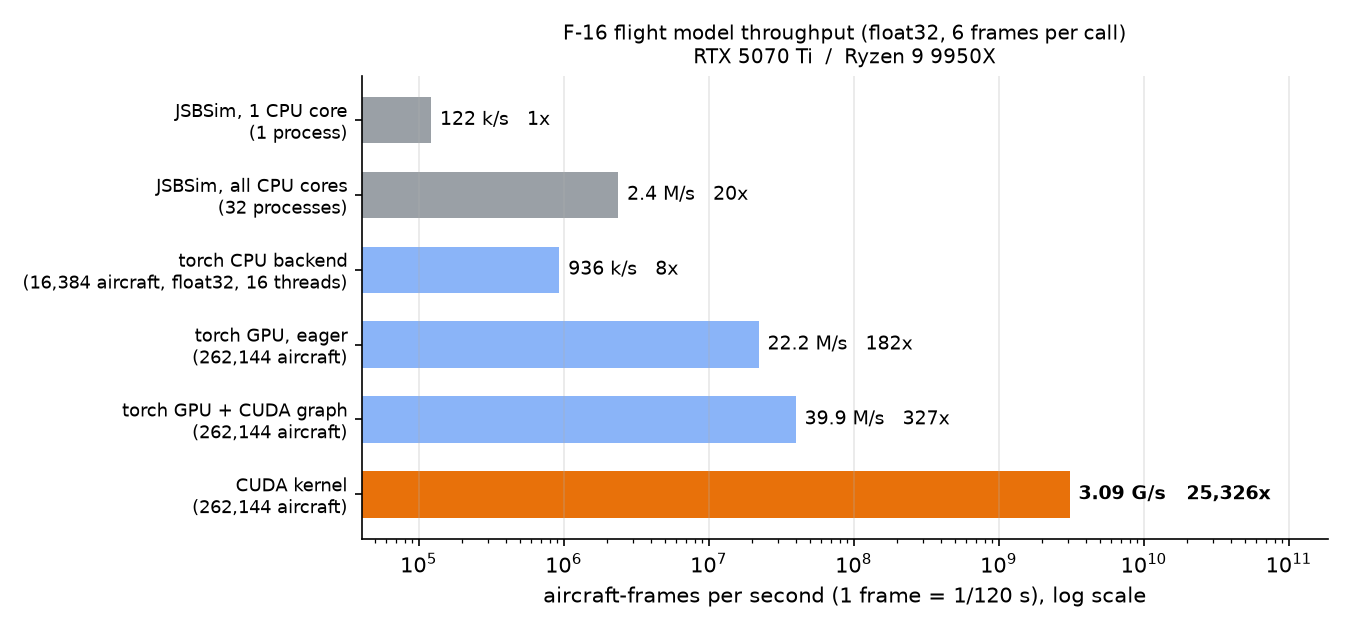
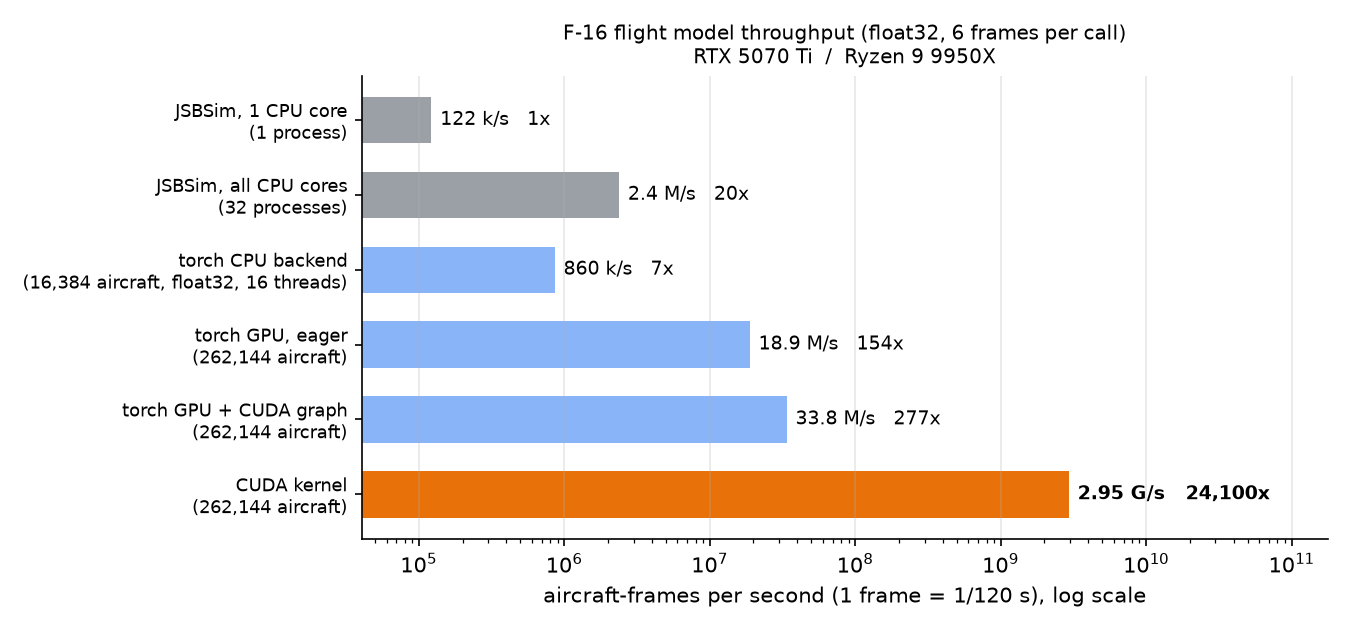
v0.2.1: re-measured throughput after inertial-frame velocity integration
Kernel 2.95 G aircraft-frames/s at 262,144 aircraft on an idle RTX 5070 Ti (was 3.09 G before the integration fix; best of two runs, < 3 % apart): 24,100x JSBSim on one core and 1,240x on all 32 threads, physics only.  torch GPU + CUDA graph 33.8 M, eager 18.9 M; torch CPU 0.86 M (16,384 aircraft, 16 threads).  README (en/ko), docs/benchmarks.md, bench.json and the figure updated; plot ratios rounded to 3 significant figures.  Code: sync with upstream (trim seeding hooks, kernel environment struct); verification unchanged.

diff --git a/jsbsim_f16_cuda/fused_core.py b/jsbsim_f16_cuda/fused_core.py
@@ -97,6 +97,7 @@ def _core_consts(dbl: bool) -> str:
         FF_UP=FF_RATE_UP_PPH_S * DT_PHYS / 3600.0,
         FF_DN=FF_RATE_DOWN_PPH_S * DT_PHYS / 3600.0,
         R_EARTH=RB.R_EARTH, RH_REF=RB.R_EARTH + RB.H_REF,
+        WGS84_A=RB.WGS84_A, WGS84_E2=RB.WGS84_E2,
         AB3_0=23.0 / 12.0, AB3_1=16.0 / 12.0, AB3_2=5.0 / 12.0,
         ATM_EARTH_R=PR._EARTH_R, ATM_G0=PR._G0, ATM_R=PR._R_ENG, ATM_GAMMA=PR._GAMMA,
         RHO_SL_TURB=PR._RHO_SL,
@@ -396,7 +397,7 @@ struct Pre {
     REAL web_x, web_y, web_z, wix, wiy, wiz;
 };
 // 위도·중력 (인스턴스마다 다르다 -- 커널 인자로 받는다)
-struct Env { REAL G0, WE_N, WE_D, ACENT_D; };
+struct Env { REAL G0, WE_N, WE_D, ACENT_D, PROJ, LAT0, COS_LAT0; };
 
 // 상태 포인터 -- torch 플랜트의 텐서들 (제자리에서 읽고 쓴다)
 struct CorePtr {
@@ -730,10 +731,22 @@ __device__ __forceinline__ void core_post(Core& c, const Pre& s, const Env& E,
     c.hu2x = c.hu1x; c.hu2y = c.hu1y; c.hu2z = c.hu1z; c.hu1x = c.hu0x; c.hu1y = c.hu0y; c.hu1z = c.hu0z;
     c.hu0x = anN; c.hu0y = anE; c.hu0z = anD;
     c.hp2x = c.hp1x; c.hp2y = c.hp1y; c.hp2z = c.hp1z; c.hp1x = c.hp0x; c.hp1y = c.hp0y; c.hp1z = c.hp0z;
-    c.hp0x = s.vn; c.hp0y = s.ve; c.hp0z = s.vd;
+    // 수평 위치를 지리좌표 투영(구면 R) 단위로 적분하는 판 (E.PROJ) -- 위치 미분만 바꾼다
+    REAL pvn = s.vn, pve = s.ve;
+    if (E.PROJ != (REAL)0) {
+        REAL lat = E.LAT0 + c.pn / R_EARTH;
+        REAL sl = SIN(lat);
+        REAL ww = (REAL)1 - (REAL)WGS84_E2 * sl * sl;
+        REAL nr = (REAL)WGS84_A / SQRT(ww);
+        REAL mr = nr * ((REAL)1 - (REAL)WGS84_E2) / ww;
+        REAL hh = -c.pd;
+        pvn = s.vn * (R_EARTH / (mr + hh));
+        pve = s.ve * (R_EARTH * E.COS_LAT0 / ((nr + hh) * COS(lat)));
+    }
+    c.hp0x = pvn; c.hp0y = pve; c.hp0z = s.vd;
     if (c.fr) {
         c.hu1x = c.hu2x = anN; c.hu1y = c.hu2y = anE; c.hu1z = c.hu2z = anD;
-        c.hp1x = c.hp2x = s.vn; c.hp1y = c.hp2y = s.ve; c.hp1z = c.hp2z = s.vd;
+        c.hp1x = c.hp2x = pvn; c.hp1y = c.hp2y = pve; c.hp1z = c.hp2z = s.vd;
     }
     if (d) {
         d[0] = s.alpha; d[1] = s.beta; d[2] = s.mach; d[3] = s.qbar; d[4] = s.vc_kts; d[5] = s.vg_fps;
@@ -816,7 +829,7 @@ __device__ __forceinline__ void core_post(Core& c, const Pre& s, const Env& E,
     REAL* __restrict__ cgt_b, const REAL* __restrict__ env
 #define CORE_PTR CorePtr P = {pos, uvw, quat, pqr, fresh, hu, hp, fst, n2_b, n2n_b, fuel_b, ff_b, \
                               ptrim_b, ab_b, wd_b, np_b, cgt_b}; \
-                 Env E = {env[0], env[1], env[2], env[3]};
+                 Env E = {env[0], env[1], env[2], env[3], env[4], env[5], env[6]};
 """
 
 # 조종간 드라이버 -- `F16Stick.step(stick, substeps)` 와 같은 일
@@ -864,10 +877,15 @@ def core_source(aero, turb, mass, dbl: bool) -> str:
 
 
 def env_tensor(rb, device, dtype) -> torch.Tensor:
-    """`RigidBody6DOF` 의 위도·중력 상수 (G0, w_earth N, w_earth D, 원심 D)."""
-    return torch.stack((torch.tensor(rb.gravity, dtype=torch.float64),
+    """`RigidBody6DOF` 의 위도·중력 상수 (G0, w_earth N, w_earth D, 원심 D,
+    지리좌표 투영 여부, lat0, cos lat0).  투영이 없는 강체면 0 / 0 / 1."""
+    f64 = lambda v: torch.tensor(float(v), dtype=torch.float64)
+    return torch.stack((f64(rb.gravity),
                         rb.w_earth_ned[0].double().cpu(), rb.w_earth_ned[2].double().cpu(),
-                        rb.a_cent_ned[2].double().cpu())).to(device=device, dtype=dtype)
+                        rb.a_cent_ned[2].double().cpu(),
+                        f64(1.0 if getattr(rb, "_gym_proj", False) else 0.0),
+                        f64(getattr(rb, "_lat0", 0.0)),
+                        f64(getattr(rb, "_cos_lat0", 1.0)))).to(device=device, dtype=dtype)
 
 
 def check_plant(dyn) -> None:

diff --git a/jsbsim_f16_cuda/f16_core.py b/jsbsim_f16_cuda/f16_core.py
@@ -437,7 +437,8 @@ class F16Stick:
                  lat0_deg: float = 0.0, mass: str = "tanks", refuel: bool = False,
                  fuel_lbs=None, gravity_ms2: float | None = None,
                  integrator: str = "jsbsim", tables: str | None = None,
-                 trim_table: str | None = TRIM_TABLE) -> None:
+                 trim_table: str | None = TRIM_TABLE,
+                 ) -> None:
         self.n = self.N = int(n)
         self.device = torch.device(device)
         self.dtype = dtype
@@ -490,7 +491,7 @@ class F16Stick:
                                                              dtype=torch.bool))
 
     def _seed_common(self, m0, alpha0, ptrim, ele_rad, n2_0, v_ned, h_ft, speed,
-                     stick0, fuel0) -> None:
+                     stick0, fuel0, a_trim=None, npz0=None) -> None:
         """강체를 뺀 나머지 상태(FLCS 지연버퍼, 엔진, 연료, 직전 비력·스틱)를 트림 값으로 민다."""
         m1 = m0.unsqueeze(-1)
 
@@ -503,7 +504,8 @@ class F16Stick:
         vg0 = torch.hypot(v_ned[..., 0], v_ned[..., 1]) / FT
         tef = tef_control_seed(vc0, mach0)
         self.flcs.reset(mask=m0, alpha_rad=alpha0,
-                        n_pilot_z_norm=torch.full_like(speed, -1.0),
+                        n_pilot_z_norm=(torch.full_like(speed, -1.0) if npz0 is None
+                                        else npz0),
                         mach=mach0, vc_kts=vc0, vg_fps=vg0,
                         ele_pos_norm=ele_rad / ELEVATOR_RANGE_RAD,
                         tef_control=tef)
@@ -516,13 +518,17 @@ class F16Stick:
         if self._tank:
             put(self._cg_tank, self.mass.props(fuel0)[1])
         put(self.ff_pps, torch.zeros_like(speed))
-        ct, st_ = torch.cos(alpha0), torch.sin(alpha0)
-        a_trim = torch.stack((G_STD_FPS2 * st_, torch.zeros_like(ct),
-                              -G_STD_FPS2 * ct), dim=-1)
+        if a_trim is None:
+            ct, st_ = torch.cos(alpha0), torch.sin(alpha0)
+            a_trim = torch.stack((G_STD_FPS2 * st_, torch.zeros_like(ct),
+                                  -G_STD_FPS2 * ct), dim=-1)
+            npil = torch.zeros_like(self.n_pilot)
+            npil[:, 0], npil[:, 2] = st_, -ct
+        else:
+            # 트림 표가 잰 트림 프레임의 비중력 비력을 그대로 (`reset_contract`)
+            npil = a_trim / G_STD_FPS2
         put(self.a_body, a_trim)
         put(self.wdot_i, torch.zeros_like(self.wdot_i))
-        npil = torch.zeros_like(self.n_pilot)
-        npil[:, 0], npil[:, 2] = st_, -ct
         put(self.n_pilot, npil)
         put(self.stick, stick0)
 

diff --git a/jsbsim_f16_cuda/rbdyn.py b/jsbsim_f16_cuda/rbdyn.py
@@ -91,6 +91,9 @@ G0 = 32.1593872843476 * FT
 H_REF = 20000.0 * FT
 #: 지구 반지름 [m] (역제곱 중력·원심가속도의 r).
 R_EARTH = 6371000.0
+#: WGS84 타원체 (JSBSim `FGLocation` 과 같다).
+WGS84_A = 6378137.0
+WGS84_E2 = 6.69437999014e-3
 #: 지구 자전 각속도 [rad/s]
 OMEGA_EARTH = 7.2921151467e-5
 #: 위도를 안 주면 쓰는 기준 위도 [deg].  `G0` 가 이 위도의 값이다.
@@ -520,7 +523,8 @@ class RigidBody6DOF:
         a_ned = torch.einsum("...ji,...j->...i", Tl2b,
                              uvw_dot + torch.cross(self.pqr, self.uvw, dim=-1))
         vel_h = self._push("uvw", a_ned)
-        pos_h = self._push("pos", pos_dot)
+        pos_rate = pos_dot
+        pos_h = self._push("pos", pos_rate)
 
         self.pqr.add_(pqr_dot, alpha=dt)
         self.quat.add_(q_dot, alpha=dt)
@@ -530,6 +534,7 @@ class RigidBody6DOF:
         self.pos_ned.add_(
             (23.0 / 12.0) * pos_h[0] - (16.0 / 12.0) * pos_h[1] + (5.0 / 12.0) * pos_h[2],
             alpha=dt)
+
 
     def _renorm_quat(self) -> None:
         self.quat.div_(self.quat.norm(dim=-1, keepdim=True).clamp_min(1e-12))

diff --git a/examples/plot_bench.py b/examples/plot_bench.py
@@ -50,7 +50,9 @@ def main(src: str, dst: str) -> None:
     ax.set_xlim(min(vals) / 3, max(vals) * 60)
     for yi, (n, (v, _)) in zip(y, bars):
         txt = f"{v / 1e9:.2f} G/s" if v >= 1e9 else (f"{v / 1e6:.1f} M/s" if v >= 1e6 else f"{v / 1e3:.0f} k/s")
-        ax.text(v * 1.15, yi, f"{txt}   {v / base:,.0f}x", va="center", fontsize=9,
+        r = v / base
+        r = float(f"{r:.3g}")                     # 3 significant figures, like the tables
+        ax.text(v * 1.15, yi, f"{txt}   {r:,.0f}x", va="center", fontsize=9,
                 fontweight="bold" if n == "CUDA kernel" else "normal")
     ax.set_xlabel("aircraft-frames per second (1 frame = 1/120 s), log scale")
     gpu = (meta.get("gpu") or "").replace("NVIDIA GeForce ", "")

diff --git a/jsbsim_f16_cuda/fdm_verify.py b/jsbsim_f16_cuda/fdm_verify.py
@@ -217,8 +217,8 @@ def seed(dyn, rows, W, prog, lat0, lon0):
     hu, hp = dyn.rb._hist["uvw"], dyn.rb._hist["pos"]
     for slot, row in ((0, prv), (1, pr2), (2, pr3)):
         hu[slot].copy_((_a_ned(row, dev, dt) * FT).expand(dyn.N, 3))
-        hp[slot].copy_(torch.stack((t(row["vn"] * FT), t(row["ve"] * FT),
-                                    t(row["vd"] * FT)), -1))
+        v_ned = torch.stack((t(row["vn"] * FT), t(row["ve"] * FT), t(row["vd"] * FT)), -1)
+        hp[slot].copy_(v_ned)
     dyn.rb._fresh.fill_(False)
     dyn.n2.copy_(t(prv["n2"]))
     dyn.n2norm.copy_((dyn.n2 - dyn.turbine.idle_n2) / dyn.turbine.n2_factor)

diff --git a/jsbsim_f16_cuda/__init__.py b/jsbsim_f16_cuda/__init__.py
@@ -17,7 +17,7 @@ JSBSim engine: other aircraft files will not run.
 """
 from .f16_core import F16Stick, TankMass, TrimGrid, gravity_j2_ms2  # noqa: F401
 
-__version__ = "0.2.0"
+__version__ = "0.2.1"
 
 
 def attach_stick(dyn):

diff --git a/docs/benchmarks.md b/docs/benchmarks.md
@@ -10,13 +10,13 @@ what that means for a whole training loop see
 
 | | |
 |---|---|
-| GPU | NVIDIA GeForce RTX 5070 Ti (16 GB), no other compute jobs during the GPU runs (utilisation 0 – 16 % before and after) |
-| CPU | AMD Ryzen 9 9950X, 16 cores / 32 hardware threads; light background load (5 – 15 %) during the CPU runs |
+| GPU | NVIDIA GeForce RTX 5070 Ti (16 GB), no other compute jobs during the GPU runs (utilisation 0 % before and after) |
+| CPU | AMD Ryzen 9 9950X, 16 cores / 32 hardware threads; light background load (3 – 15 %) during the CPU runs |
 | software | Windows 11, Python 3.11, torch 2.11.0+cu128, JSBSim 1.3.0 (pip) |
 | this port | float32 unless stated; `step(stick, substeps=6)` per call (6 frames); each aircraft holds its own random stick and the fleet is re-trimmed every 10 s of flight (excluded from timing) so it keeps manoeuvring inside the envelope |
 | JSBSim | one `FGFDMExec` per process, trim at 20,000 ft / 450 kt then hold the trim controls; re-trim every 100 s of flight (excluded); processes started together behind a barrier |
-| timing | ≥ 3 s per measurement after warm-up; GPU numbers are the better of two runs (they differed by < 5 %) |
-| version | measured on v0.2.0.  The later fix that integrates velocity in the inertial frame adds one 3×3 rotation per frame; it has not been re-measured on an idle GPU |
+| timing | ≥ 3 s per measurement after warm-up; GPU numbers are the better of two runs (they differed by < 3 %) |
+| version | this port (CUDA kernel, torch GPU and CPU backends): 0.2.1, which integrates velocity in the inertial frame, measured 2026-09-24 (the fix cost about 5 % of kernel throughput: 3.09 G before).  JSBSim: measured 2026-09-23 |
 
 ## Summary (physics only)
 
@@ -24,28 +24,28 @@ what that means for a whole training loop see
 |---|---|---|---|---|---|
 | JSBSim 1.3.0, `run()` only | 1 process | 122 k | 8.2 µs | 49 µs | 1× |
 | JSBSim 1.3.0, `run()` only | 32 processes | 2.38 M | 0.42 µs | 2.5 µs | 20× |
-| torch CPU backend | 16,384 aircraft, 16 threads, float32 | 0.94 M | 1.1 µs | 6.4 µs | 7.7× |
-| torch GPU backend, eager | 262,144 aircraft | 22.2 M | 45 ns | 270 ns | 182× |
-| torch GPU backend, CUDA graph | 262,144 aircraft | 39.9 M | 25 ns | 150 ns | 327× |
-| **CUDA kernel** | 262,144 aircraft | **3.09 G** | **0.32 ns** | **1.9 ns** | **25,300×** |
+| torch CPU backend | 16,384 aircraft, 16 threads, float32 | 0.86 M | 1.2 µs | 7.0 µs | 7.0× |
+| torch GPU backend, eager | 262,144 aircraft | 18.9 M | 53 ns | 320 ns | 154× |
+| torch GPU backend, CUDA graph | 262,144 aircraft | 33.8 M | 30 ns | 180 ns | 277× |
+| **CUDA kernel** | 262,144 aircraft | **2.95 G** | **0.34 ns** | **2.0 ns** | **24,100×** |
 
 Cost per aircraft-frame = 1 / throughput, i.e. amortised over the whole batch (for JSBSim,
 over the processes).  It is the number to plug into the formula in the next section.
 
-Physics only, the kernel is **1,300×** JSBSim running on all 32 hardware threads of this
-CPU.  3.09 G aircraft-frames/s is 25.8 million aircraft at the real-time rate of 120 frames
+Physics only, the kernel is **1,240×** JSBSim running on all 32 hardware threads of this
+CPU.  2.95 G aircraft-frames/s is 24.5 million aircraft at the real-time rate of 120 frames
 per second.
 
 ## CUDA kernel and torch GPU backend, by batch size
 
 | aircraft | torch eager | torch + CUDA graph | CUDA kernel | kernel / graph |
 |---|---|---|---|---|
-| 1,024 | 0.10 M | 0.85 M | 169 M | 199× |
-| 4,096 | 0.40 M | 3.23 M | 673 M | 208× |
-| 16,384 | 1.65 M | 11.4 M | 2.34 G | 204× |
-| 65,536 | 6.58 M | 29.3 M | 2.91 G | 99× |
-| 131,072 | 12.6 M | 37.0 M | 3.04 G | 82× |
-| 262,144 | 22.2 M | 39.9 M | 3.09 G | 77× |
+| 1,024 | 0.09 M | 0.77 M | 157 M | 204× |
+| 4,096 | 0.36 M | 2.93 M | 622 M | 212× |
+| 16,384 | 1.45 M | 10.2 M | 2.30 G | 227× |
+| 65,536 | 5.75 M | 25.2 M | 2.77 G | 110× |
+| 131,072 | 11.0 M | 31.5 M | 2.93 G | 93× |
+| 262,144 | 18.9 M | 33.8 M | 2.95 G | 87× |
 
 The kernel saturates this GPU from about 65,536 aircraft.  The torch backend launches many
 small kernels per frame; a CUDA graph removes the launch overhead but not the memory traffic
@@ -70,15 +70,15 @@ caches and memory.
 
 | aircraft | float32, 1 thread | float32, 16 threads | float64, 1 thread | float64, 16 threads |
 |---|---|---|---|---|
-| 1 | 349 | 413 | 459 | 455 |
-| 64 | 24 k | 19 k | 27 k | 20 k |
-| 1,024 | 262 k | 217 k | 245 k | 202 k |
-| 16,384 | 645 k | 936 k | 478 k | 589 k |
+| 1 | 367 | 361 | 416 | 422 |
+| 64 | 22 k | 18 k | 25 k | 19 k |
+| 1,024 | 237 k | 197 k | 222 k | 193 k |
+| 16,384 | 581 k | 860 k | 459 k | 563 k |
 
 Where it crosses JSBSim: per thread, the torch CPU backend is slower than one JSBSim core
-below a few hundred aircraft (Python and operator overhead dominate — one aircraft is 350×
-slower), passes it between 64 and 1,024 aircraft, and reaches 5.3× at 16,384 aircraft
-(float32).  With all 16 threads it reaches 0.94 M, still **below JSBSim run on every core
+below a few hundred aircraft (Python and operator overhead dominate — one aircraft is 330×
+slower), passes it between 64 and 1,024 aircraft, and reaches 4.8× at 16,384 aircraft
+(float32).  With all 16 threads it reaches 0.86 M, still **below JSBSim run on every core
 (2.38 M)**.  On a CPU-only machine, running JSBSim itself in parallel processes is the
 faster choice; the torch CPU backend is there as the reference implementation and for
 machines without a GPU.
@@ -99,7 +99,7 @@ at most `1 / (1 − p)`, however fast the simulator becomes.
 
 ### Example 1: CPU training → GPU training
 
-**One example, not a guarantee.**  The same private PPO trainer with the same 256×2 MLP
+**One example, not a guarantee** (measured with earlier builds of the simulator).  The same private PPO trainer with the same 256×2 MLP
 policy on the same PC (Ryzen 9 9950X, RTX 5070 Ti), first with JSBSim 1.3.0 on the CPU, then
 with this simulator's torch backend (+ CUDA graph) on the GPU:
 

diff --git a/README.ko.md b/README.ko.md
@@ -1,6 +1,6 @@
 # jsbsim-f16-cuda
 
-**JSBSim 의 F-16 을 손으로 짠 CUDA 커널로: GPU 한 장에서 초당 30.9 억 기체·프레임, JSBSim 과
+**JSBSim 의 F-16 을 손으로 짠 CUDA 커널로: GPU 한 장에서 초당 29.5 억 기체·프레임, JSBSim 과
 한 프레임씩 대조.**
 
 [![License: GPL-3.0-or-later](https://img.shields.io/badge/license-GPL--3.0--or--later-blue)](LICENSE)
@@ -17,12 +17,12 @@ JSBSim 적분기와 지구 자전을 쓴 6 자유도 운동방정식)을 CUDA C+
 
 ## 시뮬레이터 처리량 (물리만)
 
-RTX 5070 Ti, Ryzen 9 9950X (16 코어 / 32 스레드).  float32, 호출당 6 프레임, GPU 는 다른 작업
-없음 ([조건과 전체 숫자](docs/benchmarks.md)):
+v0.2.1, RTX 5070 Ti, Ryzen 9 9950X (16 코어 / 32 스레드).  float32, 호출당 6 프레임, GPU 는 다른
+작업 없음 ([조건과 전체 숫자](docs/benchmarks.md)):
 
-- CUDA 커널 262,144 대에서 **초당 30.9 억 기체·프레임** -- GPU 한 장으로 **F-16 2,500 만 대를
+- CUDA 커널 262,144 대에서 **초당 29.5 억 기체·프레임** -- GPU 한 장으로 **F-16 2,400 만 대를
   실시간으로** 날릴 수 있는 양이다.
-- **JSBSim CPU 1 코어의 25,300 배, 하드웨어 스레드 32 개 전부의 1,300 배** (CUDA 커널 대
+- **JSBSim CPU 1 코어의 24,100 배, 하드웨어 스레드 32 개 전부의 1,240 배** (CUDA 커널 대
   JSBSim `run()`, 물리만).
 - 한 프레임 대조에서 **조종면이 JSBSim 과 똑같다** (오차 0).
 
@@ -32,12 +32,12 @@ RTX 5070 Ti, Ryzen 9 9950X (16 코어 / 32 스레드).  float32, 호출당 6 프
 |---|---|---|---|
 | JSBSim 1.3.0, 프로세스 1 개 | 122 k | 8.2 µs | 1 배 |
 | JSBSim 1.3.0, 프로세스 32 개 | 2.38 M | 0.42 µs | 20 배 |
-| torch CPU 백엔드, 16,384 대, 스레드 16 | 0.94 M | 1.1 µs | 7.7 배 |
-| torch GPU 백엔드 + CUDA 그래프, 262,144 대 | 39.9 M | 25 ns | 327 배 |
-| **CUDA 커널, 262,144 대** | **3.09 G** | **0.32 ns** | **25,300 배** |
+| torch CPU 백엔드, 16,384 대, 스레드 16 | 0.86 M | 1.2 µs | 7.0 배 |
+| torch GPU 백엔드 + CUDA 그래프, 262,144 대 | 33.8 M | 30 ns | 277 배 |
+| **CUDA 커널, 262,144 대** | **2.95 G** | **0.34 ns** | **24,100 배** |
 
 비용 = 1 / 처리량 (배치 전체에 나눠 낸 값).  20 Hz 결정 한 스텝(6 프레임)은 그 6 배다:
-기체 한 대당 JSBSim 1 코어로 49 µs, 커널로 1.9 ns.
+기체 한 대당 JSBSim 1 코어로 49 µs, 커널로 2.0 ns.
 
 ## 학습 속도에는 어떻게 나타나나
 
@@ -47,7 +47,7 @@ RTX 5070 Ti, Ryzen 9 9950X (16 코어 / 32 스레드).  float32, 호출당 6 프
 `속도 향상 = (T_sim_기존 + T_rest) / (T_sim_새것 + T_rest)` -- 지금 학습 시간 중 시뮬레이터가
 차지하는 비율이 `p` 라면 향상은 최대 `1 / (1 − p)` 다.
 
-예시 하나 (보장값이 아니다) -- 같은 PC 에서 같은 비공개 PPO 학습기(정책 256×2 MLP)를 처음엔
+예시 하나 (보장값이 아니다, 이전 빌드로 잼) -- 같은 PC 에서 같은 비공개 PPO 학습기(정책 256×2 MLP)를 처음엔
 CPU 의 JSBSim 으로, 다음엔 GPU 의 이 시뮬레이터(torch 백엔드 + CUDA 그래프)로 돌렸다:
 
 | 학습 파이프라인 | 초당 env-step (학습 전체) | CPU 파이프라인 대비 |

diff --git a/README.md b/README.md
@@ -1,6 +1,6 @@
 # jsbsim-f16-cuda
 
-**JSBSim's F-16 as a hand-written CUDA kernel: 3.09 billion aircraft-frames per second on
+**JSBSim's F-16 as a hand-written CUDA kernel: 2.95 billion aircraft-frames per second on
 one GPU, checked frame by frame against JSBSim.**
 
 [![License: GPL-3.0-or-later](https://img.shields.io/badge/license-GPL--3.0--or--later-blue)](LICENSE)
@@ -20,12 +20,12 @@ JSBSim's numbers.
 
 ## Simulator throughput (physics only)
 
-RTX 5070 Ti and Ryzen 9 9950X (16 cores / 32 threads); float32, 6 frames per call, GPU
-otherwise idle ([conditions and all numbers](docs/benchmarks.md)):
+v0.2.1 on an RTX 5070 Ti and a Ryzen 9 9950X (16 cores / 32 threads); float32, 6 frames per
+call, GPU otherwise idle ([conditions and all numbers](docs/benchmarks.md)):
 
-- **3.09 billion aircraft-frames/s** from the CUDA kernel with 262,144 aircraft — enough to
-  fly **25 million F-16s in real time** on one GPU.
-- **25,300× JSBSim on one CPU core, 1,300× JSBSim on all 32 hardware threads** (CUDA kernel
+- **2.95 billion aircraft-frames/s** from the CUDA kernel with 262,144 aircraft — enough to
+  fly **24 million F-16s in real time** on one GPU.
+- **24,100× JSBSim on one CPU core, 1,240× JSBSim on all 32 hardware threads** (CUDA kernel
   vs. JSBSim `run()`, physics only).
 - **Control surfaces identical to JSBSim** in a one-frame comparison (error 0).
 
@@ -35,12 +35,12 @@ otherwise idle ([conditions and all numbers](docs/benchmarks.md)):
 |---|---|---|---|
 | JSBSim 1.3.0, 1 process | 122 k | 8.2 µs | 1× |
 | JSBSim 1.3.0, 32 processes | 2.38 M | 0.42 µs | 20× |
-| torch CPU backend, 16,384 aircraft, 16 threads | 0.94 M | 1.1 µs | 7.7× |
-| torch GPU backend + CUDA graph, 262,144 aircraft | 39.9 M | 25 ns | 327× |
-| **CUDA kernel, 262,144 aircraft** | **3.09 G** | **0.32 ns** | **25,300×** |
+| torch CPU backend, 16,384 aircraft, 16 threads | 0.86 M | 1.2 µs | 7.0× |
+| torch GPU backend + CUDA graph, 262,144 aircraft | 33.8 M | 30 ns | 277× |
+| **CUDA kernel, 262,144 aircraft** | **2.95 G** | **0.34 ns** | **24,100×** |
 
 Cost = 1 / throughput (amortised over the batch).  One 20 Hz decision step (6 frames) costs
-6× that: 49 µs of JSBSim on one core versus 1.9 ns in the kernel, per aircraft.
+6× that: 49 µs of JSBSim on one core versus 2.0 ns in the kernel, per aircraft.
 
 ## What it means for training
 
@@ -51,8 +51,9 @@ rewards and the learning algorithm:
 `speedup = (T_sim_old + T_rest) / (T_sim_new + T_rest)` — if the simulator is a fraction
 `p` of your current training time, the speedup is at most `1 / (1 − p)`.
 
-One example, not a guarantee — the same private PPO trainer (256×2 MLP policy) on the same
-PC, first with JSBSim on the CPU, then with this simulator on the GPU (torch backend + CUDA graph):
+One example, not a guarantee (measured with earlier builds) — the same private PPO trainer
+(256×2 MLP policy) on the same PC, first with JSBSim on the CPU, then with this simulator on
+the GPU (torch backend + CUDA graph):
 
 | training pipeline | env-steps/s, end-to-end | vs. CPU pipeline |
 |---|---|---|
